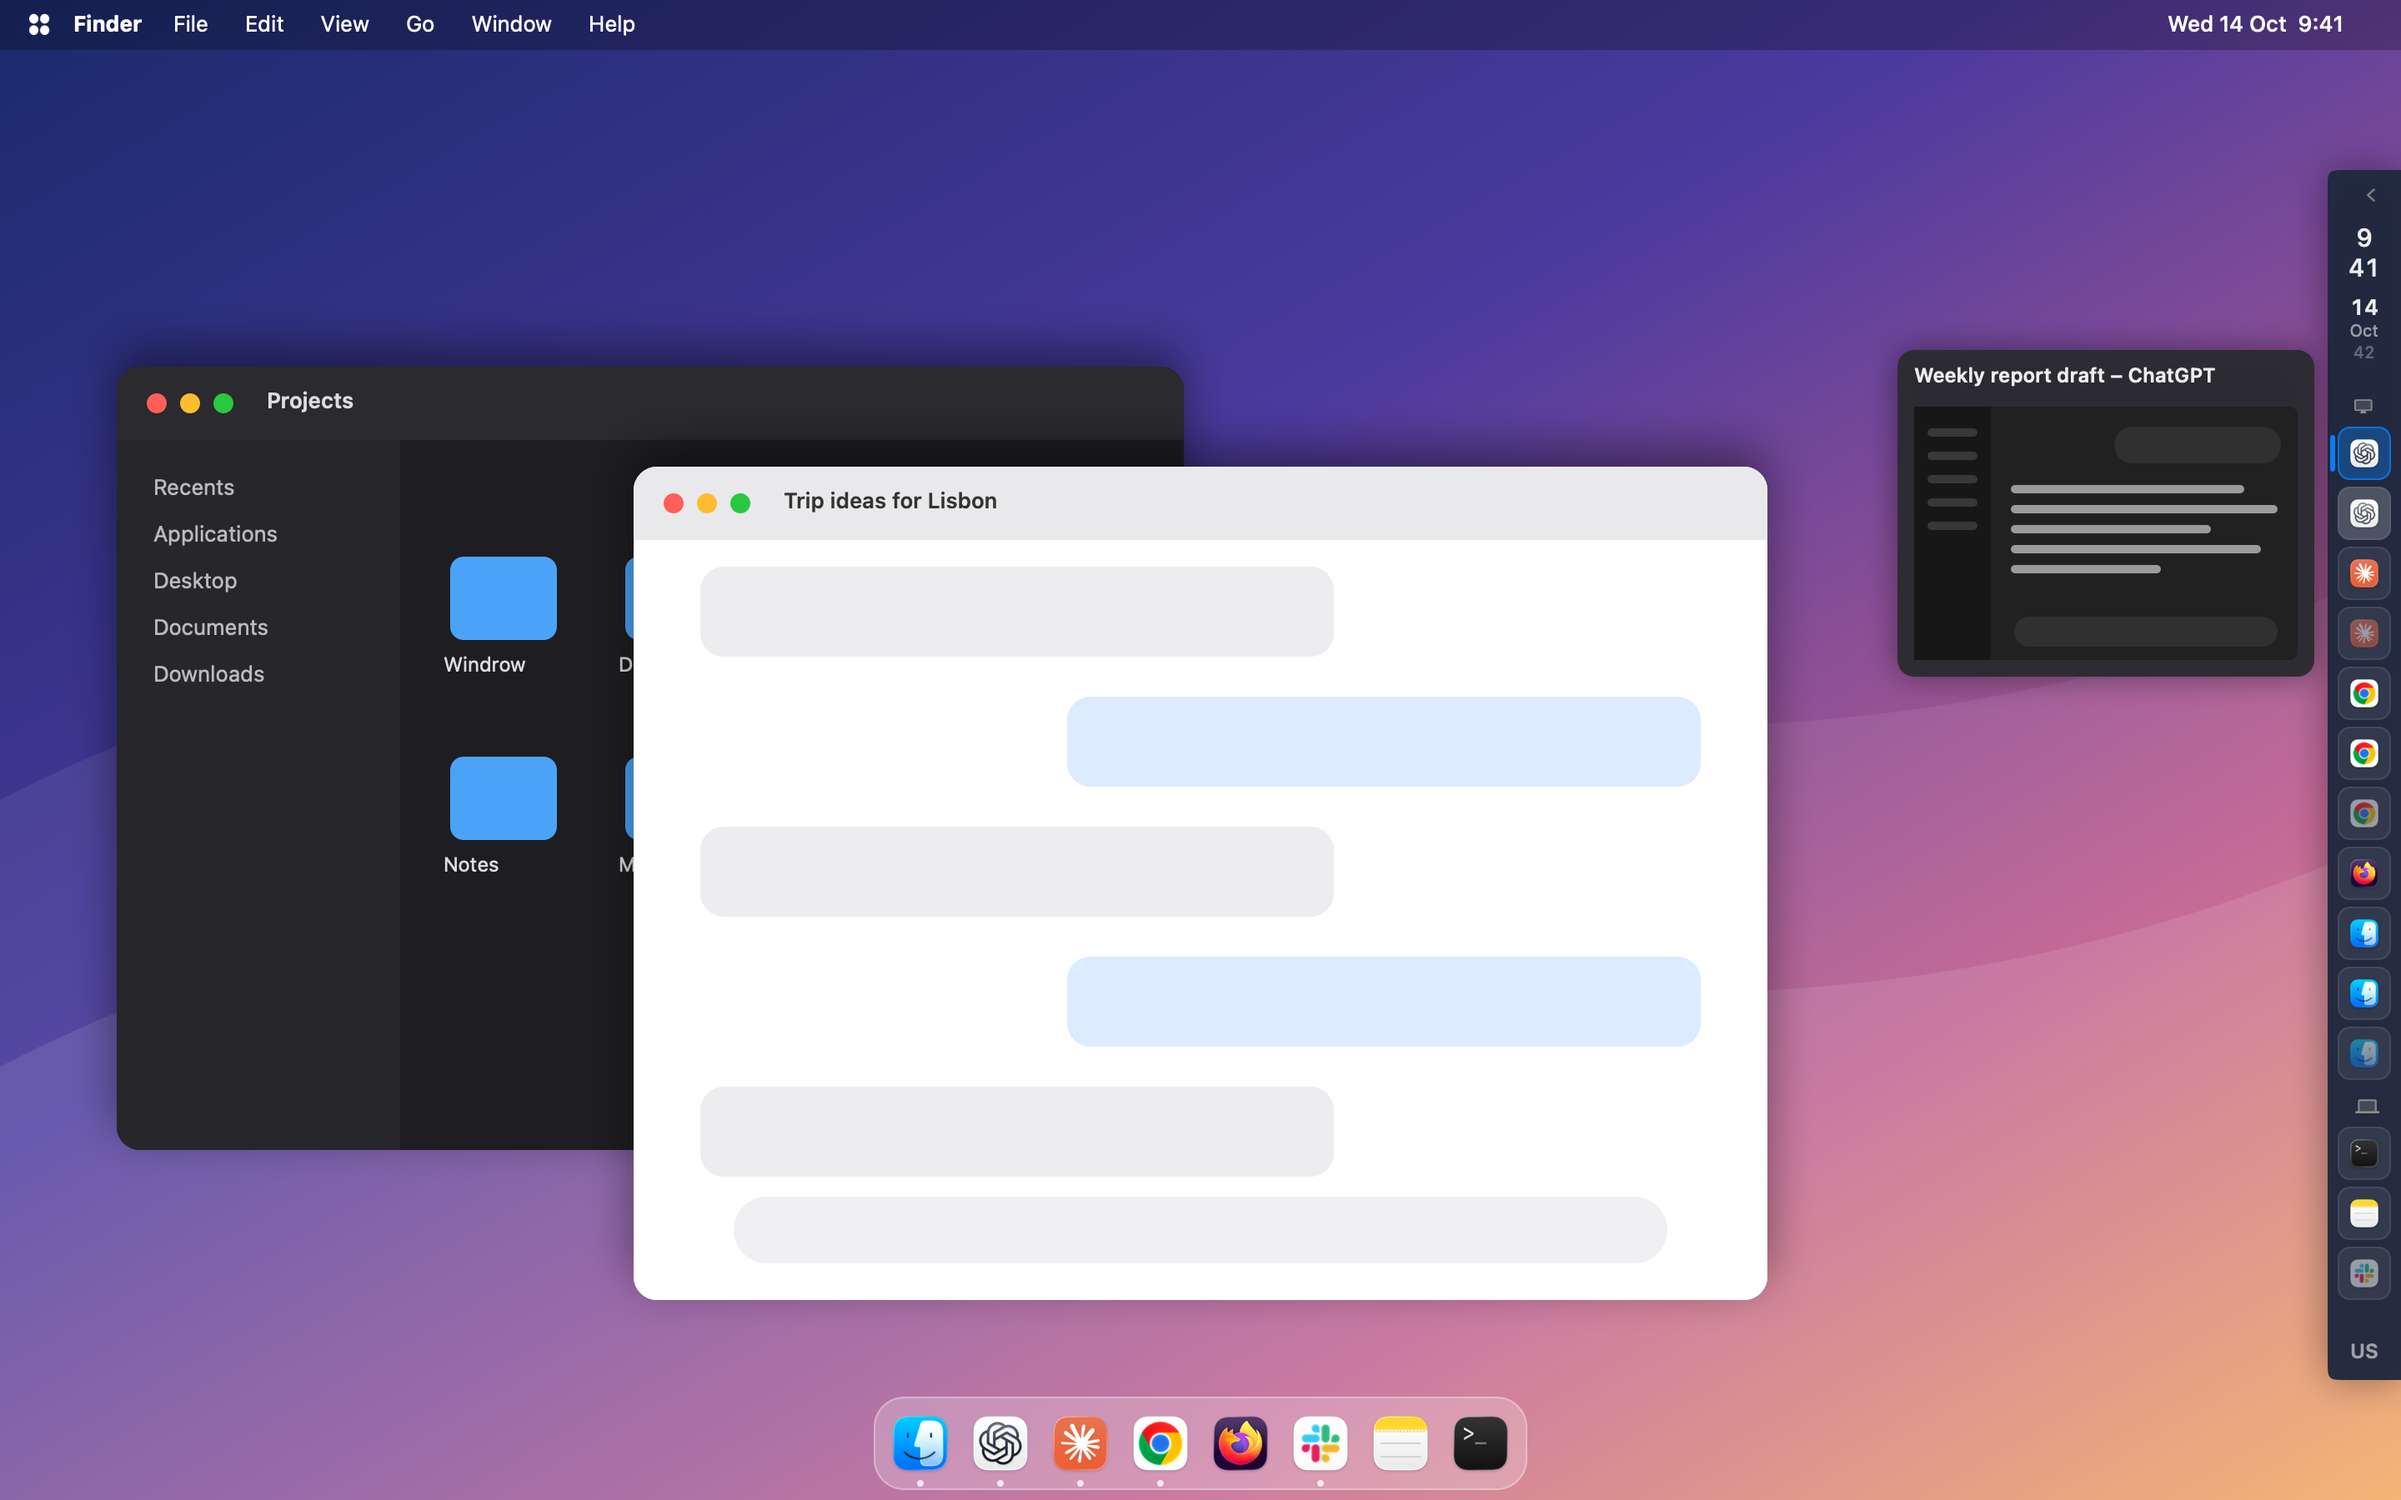
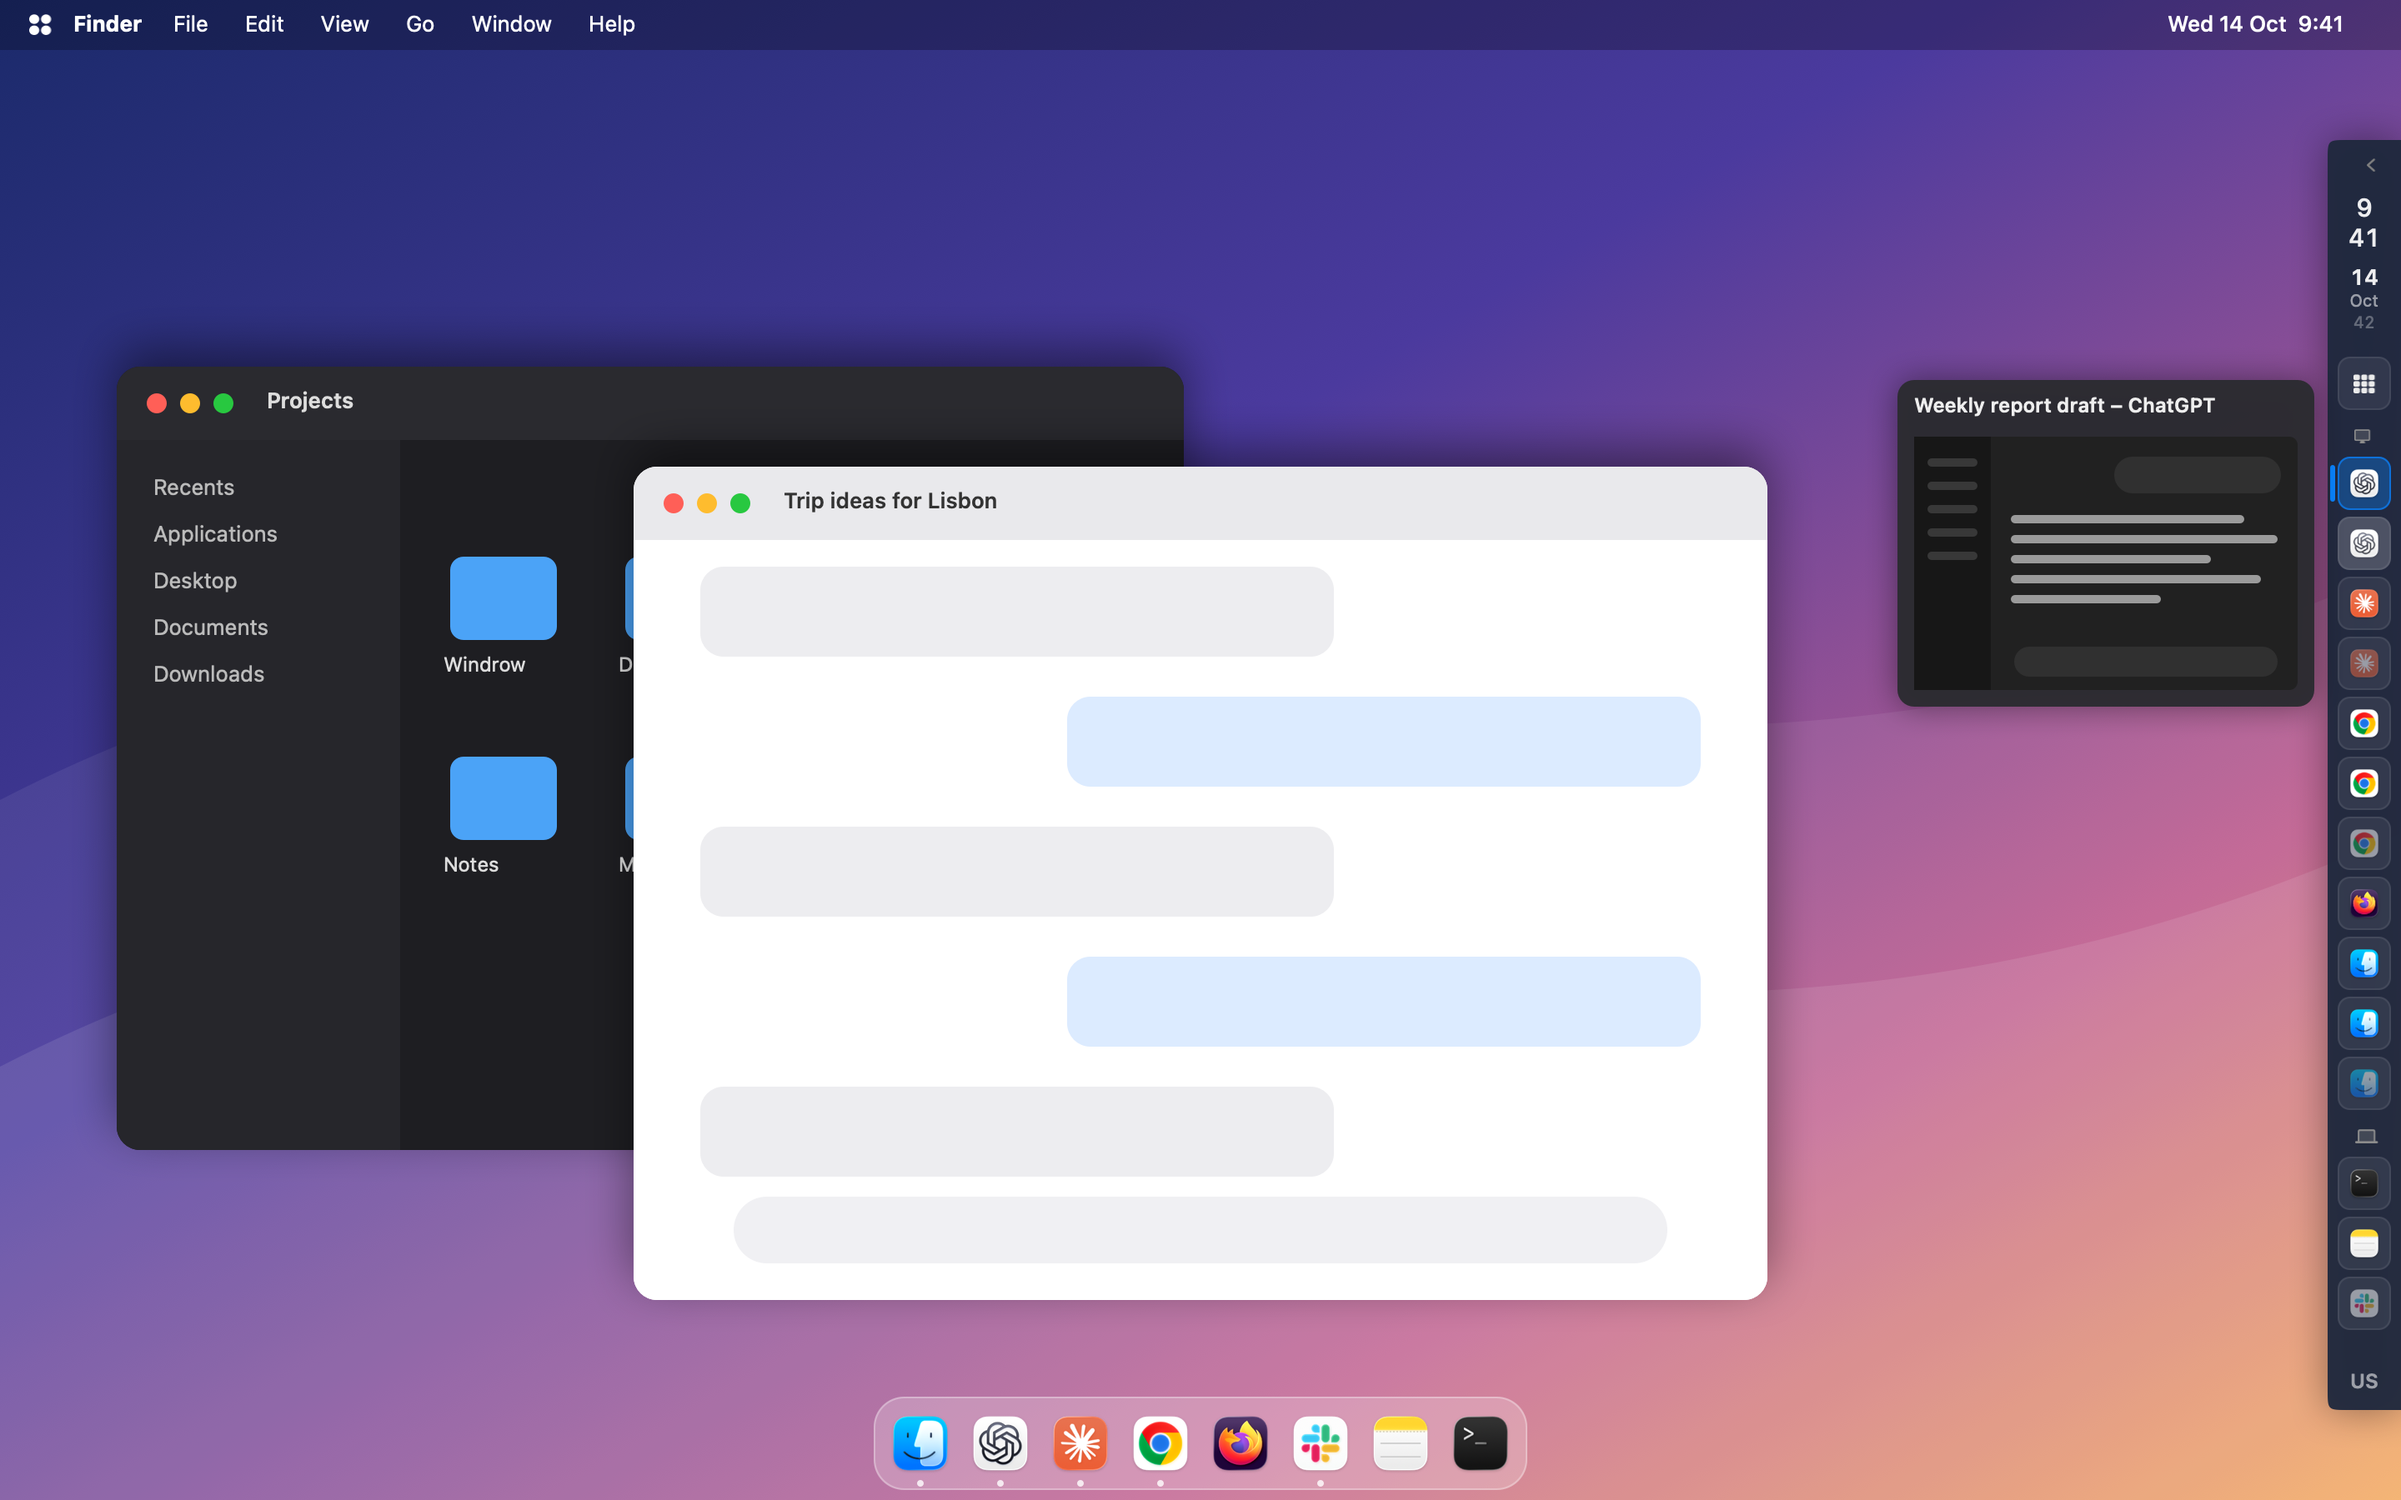
README: app launcher in 0.5.0, new screenshots

Changed region(s): [[0.7812, 0.1556, 1.0, 0.9644], [0.9688, 0.0933, 1.0, 0.1244]]

diff --git a/README.md b/README.md
@@ -12,6 +12,18 @@ Windrow is a slim panel at the side of the screen that lists **every open window
 <p align="center"><img src="screenshot-folded.png" width="860" alt="Windrow folded to a strip of icons, with a window thumbnail"></p>
 <p align="center"><em>Folded to a strip of icons, with a thumbnail on hover.</em></p>
 
+<p align="center"><img src="screenshot-launcher.png" width="860" alt="Windrow app launcher beside the panel: search, favorites, recent apps, folders"></p>
+<p align="center"><em>The app launcher: favorites, recent apps and all apps in your own folders.</em></p>
+
+<p align="center"><img src="screenshot-launcher-folder.png" width="860" alt="An open folder in the app launcher, with a star on hover"></p>
+<p align="center"><em>Point at a folder to open it; star any app to keep it in Favorites.</em></p>
+
+<p align="center"><img src="screenshot-launcher-search.png" width="860" alt="Searching for apps in the launcher"></p>
+<p align="center"><em>Type to search, in any keyboard layout.</em></p>
+
+<p align="center"><img src="screenshot-launcher-folded.png" width="860" alt="The app launcher opened from the folded strip"></p>
+<p align="center"><em>It opens from the folded strip too.</em></p>
+
 ## Why I made it
 
 I work with a lot of windows — many of them, all day long. The way standard macOS organises them only adds to the chaos: the Dock shows one button per app, and finding the right window means guessing through thumbnails. macOS presents itself as a system for productive work, but this approach makes working at the computer neither more productive nor calmer.
@@ -26,6 +38,7 @@ My goal is to bring calm and focus back to work. So I built this panel, and I us
 - Drag rows to arrange apps and windows your way; the order is remembered.
 - Window thumbnails on hover.
 - Clock with a three-week calendar and the current keyboard layout on the panel.
+- App launcher: the Apps button or Shift+Option+Space — search, favorites, recent apps and your own folders, which an AI can arrange for you.
 - Themes, background and accent colours, compact or larger rows.
 - Experimental: windows from other desktops, with a click switching to that desktop.
 - 11 languages: English, Українська, Español, Deutsch, Français, Português (Brasil), Italiano, 日本語, 简体中文, 한국어, Polski.
@@ -56,6 +69,6 @@ Windrow collects and sends no data about you. Its only connection is a check for
 
 **Навіщо.** Я постійно працюю з дуже великою кількістю вікон. Те, як їх організовано в стандартній macOS, лише додає хаосу. macOS позиціонує себе як систему для продуктивної роботи, але такий підхід не робить роботу за комп'ютером ні продуктивнішою, ні зручнішою, ні спокійнішою. Моя мета — повернути в роботу спокій і фокус. Тому я зробив цю панель і користуюся нею щодня.
 
-Windrow — бічна панель, де кожне відкрите вікно стоїть окремим рядком з іконкою й назвою; клік переводить у вікно. Потрібна macOS 15 або новіша. Завантажте `.dmg` з розділу [Releases](../../releases), перетягніть Windrow у «Програми», під час першого запуску відкрийте його через Системні параметри → Конфіденційність і безпека → «Усе одно відкрити» й видайте дозвіл Accessibility. Архіви «Source code» на сторінці релізу GitHub додає сам; у них лише цей опис і картинки, а програма — це файл `.dmg`.
+Windrow — бічна панель, де кожне відкрите вікно стоїть окремим рядком з іконкою й назвою; клік переводить у вікно. Кнопка «Програми» під годинником або Shift+Option+Пробіл відкриває запуск програм: пошук, обрані, недавні й власні папки. Потрібна macOS 15 або новіша. Завантажте `.dmg` з розділу [Releases](../../releases), перетягніть Windrow у «Програми», під час першого запуску відкрийте його через Системні параметри → Конфіденційність і безпека → «Усе одно відкрити» й видайте дозвіл Accessibility. Архіви «Source code» на сторінці релізу GitHub додає сам; у них лише цей опис і картинки, а програма — це файл `.dmg`.
 
 **Приватність.** Windrow не збирає й не надсилає жодних даних про вас. Його єдине з'єднання з мережею — перевірка нової версії на GitHub, приблизно раз на добу; її можна вимкнути в Налаштування → Загальне. Назви вікон ніколи не залишають ваш Mac.
